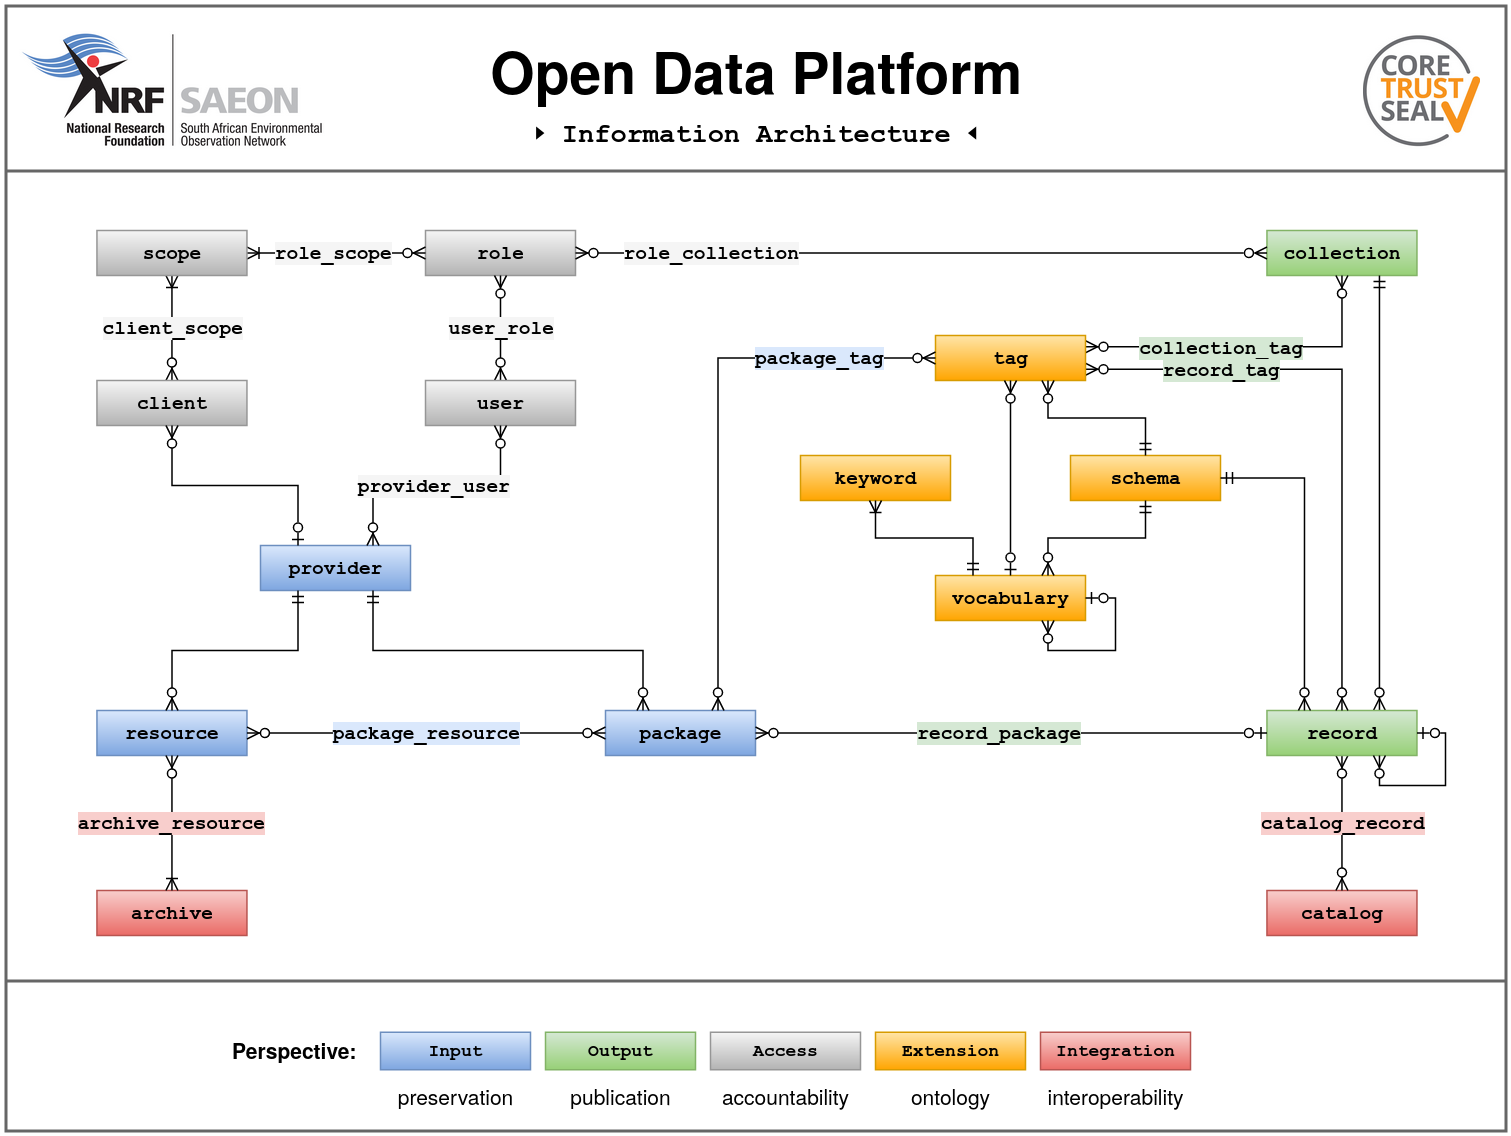
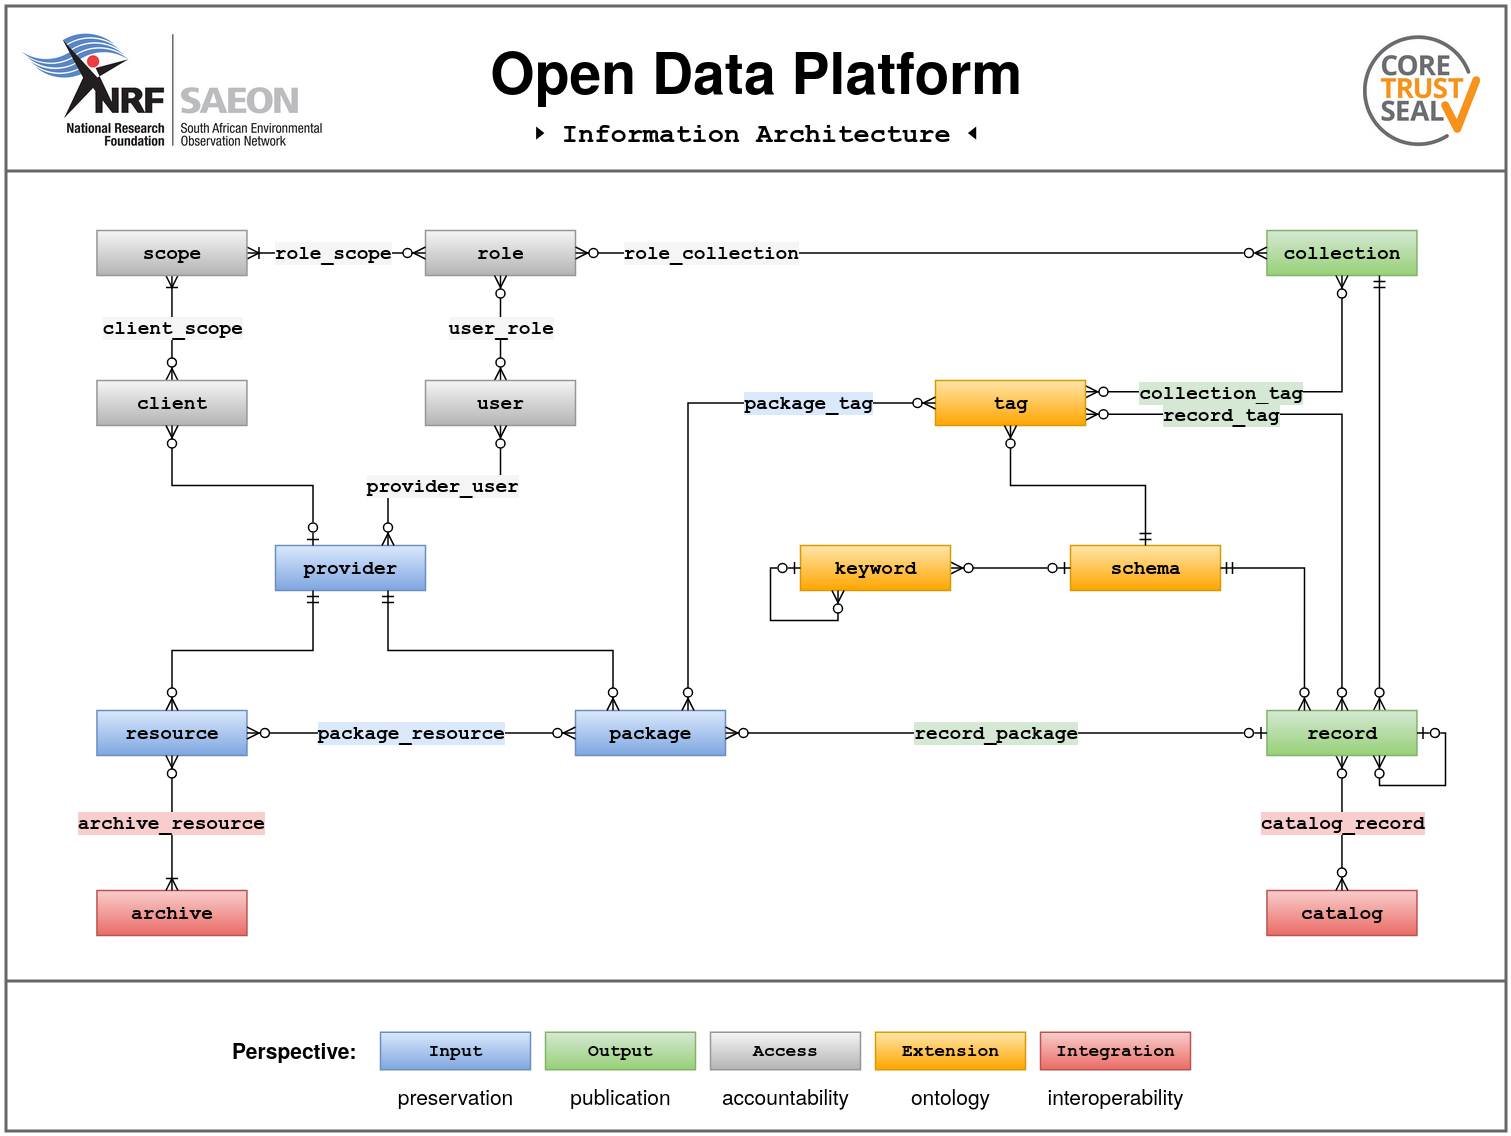
Create a hierarchical keyword entity :old_key:
SAEON/odp-server#30

diff --git a/migrate/versions/2024_06_16_d0c1c4b0d077_keyword_hierarchy.py b/migrate/versions/2024_06_16_d0c1c4b0d077_keyword_hierarchy.py
@@ -1,0 +1,60 @@
+"""Keyword hierarchy
+
+Revision ID: d0c1c4b0d077
+Revises: 9a3e9cbc19d1
+Create Date: 2024-06-16 10:02:03.771121
+
+"""
+from alembic import op
+import sqlalchemy as sa
+from sqlalchemy.dialects import postgresql
+
+# revision identifiers, used by Alembic.
+revision = 'd0c1c4b0d077'
+down_revision = '9a3e9cbc19d1'
+branch_labels = None
+depends_on = None
+
+
+def upgrade():
+    # new enum values must be committed before they can be used
+    op.execute("alter type schematype add value if not exists 'keyword' before 'vocabulary'")
+    op.execute('commit')
+
+    # ### commands auto generated by Alembic - adjusted ###
+    op.create_table('keyword_audit',
+                    sa.Column('id', sa.Integer(), sa.Identity(always=False), nullable=False),
+                    sa.Column('client_id', sa.String(), nullable=False),
+                    sa.Column('user_id', sa.String(), nullable=True),
+                    sa.Column('command', postgresql.ENUM(name='auditcommand', create_type=False), nullable=False),
+                    sa.Column('timestamp', sa.TIMESTAMP(timezone=True), nullable=False),
+                    sa.Column('_parent_key', sa.String(), nullable=True),
+                    sa.Column('_key', sa.String(), nullable=False),
+                    sa.Column('_data', postgresql.JSONB(astext_type=sa.Text()), nullable=False),
+                    sa.Column('_status', sa.String(), nullable=False),
+                    sa.Column('_schema_id', sa.String(), nullable=True),
+                    sa.PrimaryKeyConstraint('id')
+                    )
+    op.create_table('keyword',
+                    sa.Column('parent_key', sa.String(), nullable=True),
+                    sa.Column('key', sa.String(), nullable=False),
+                    sa.Column('data', postgresql.JSONB(astext_type=sa.Text()), nullable=False),
+                    sa.Column('status', sa.Enum('proposed', 'approved', 'retracted', name='keywordstatus'), nullable=False),
+                    sa.Column('schema_id', sa.String(), nullable=True),
+                    sa.Column('schema_type', postgresql.ENUM(name='schematype', create_type=False), nullable=True),
+                    sa.CheckConstraint("schema_type = 'keyword'", name='keyword_schema_type_check'),
+                    sa.CheckConstraint('parent_key is not null or schema_id is not null', name='keyword_parent_schema_check'),
+                    sa.CheckConstraint('parent_key is null or starts_with(key, parent_key)', name='keyword_parent_suffix_check'),
+                    sa.ForeignKeyConstraint(['parent_key'], ['keyword.key'], ondelete='RESTRICT'),
+                    sa.ForeignKeyConstraint(['schema_id', 'schema_type'], ['schema.id', 'schema.type'], name='keyword_schema_fkey',
+                                            ondelete='RESTRICT'),
+                    sa.PrimaryKeyConstraint('key')
+                    )
+    # ### end Alembic commands ###
+
+
+def downgrade():
+    # ### commands auto generated by Alembic ###
+    op.drop_table('keyword')
+    op.drop_table('keyword_audit')
+    # ### end Alembic commands ###

diff --git a/odp/db/models/keyword.py b/odp/db/models/keyword.py
@@ -1,0 +1,77 @@
+from sqlalchemy import CheckConstraint, Column, Enum, ForeignKey, ForeignKeyConstraint, Identity, Integer, String, TIMESTAMP
+from sqlalchemy.dialects.postgresql import JSONB
+from sqlalchemy.orm import relationship
+
+from odp.const.db import AuditCommand, KeywordStatus, SchemaType
+from odp.db import Base
+
+
+class Keyword(Base):
+    """A keyword identifies and describes a term in a vocabulary,
+    which may be hierarchical.
+
+    A keyword's key consists of its parent's key plus a non-empty
+    suffix.
+
+    A vocabulary is a keyword that is a parent of a set of keywords.
+    One keyword in such a set may itself represent a vocabulary,
+    with an associated set of sub-keywords.
+
+    Every root vocabulary must have a schema, which applies
+    recursively to every keyword in its hierarchy. Any keyword
+    may introduce its own schema, which applies to itself and
+    recursively to every sub-keyword in its sub-hierarchy.
+    """
+
+    __tablename__ = 'keyword'
+
+    __table_args__ = (
+        ForeignKeyConstraint(
+            ('schema_id', 'schema_type'), ('schema.id', 'schema.type'),
+            name='keyword_schema_fkey', ondelete='RESTRICT',
+        ),
+        CheckConstraint(
+            f"schema_type = '{SchemaType.keyword}'",
+            name='keyword_schema_type_check',
+        ),
+        CheckConstraint(
+            'parent_key is not null or schema_id is not null',
+            name='keyword_parent_schema_check',
+        ),
+        CheckConstraint(
+            'parent_key is null or starts_with(key, parent_key)',
+            name='keyword_parent_suffix_check',
+        ),
+    )
+
+    parent_key = Column(String, ForeignKey('keyword.key', ondelete='RESTRICT'))
+    key = Column(String, primary_key=True)
+    data = Column(JSONB, nullable=False)
+    status = Column(Enum(KeywordStatus), nullable=False)
+
+    schema_id = Column(String)
+    schema_type = Column(Enum(SchemaType))
+    schema = relationship('Schema')
+
+    parent = relationship('Keyword', remote_side=key)
+    children = relationship('Keyword', viewonly=True)
+
+    _repr_ = 'parent_key', 'key', 'status', 'schema_id'
+
+
+class KeywordAudit(Base):
+    """Keyword audit log."""
+
+    __tablename__ = 'keyword_audit'
+
+    id = Column(Integer, Identity(), primary_key=True)
+    client_id = Column(String, nullable=False)
+    user_id = Column(String)
+    command = Column(Enum(AuditCommand), nullable=False)
+    timestamp = Column(TIMESTAMP(timezone=True), nullable=False)
+
+    _parent_key = Column(String)
+    _key = Column(String, nullable=False)
+    _data = Column(JSONB, nullable=False)
+    _status = Column(String, nullable=False)
+    _schema_id = Column(String)

diff --git a/odp/db/models/__init__.py b/odp/db/models/__init__.py
@@ -2,6 +2,7 @@ from .archive import Archive, ArchiveResource
 from .catalog import Catalog, CatalogRecord, CatalogRecordFacet
 from .client import Client, ClientScope
 from .collection import Collection, CollectionAudit, CollectionTag, CollectionTagAudit
+from .keyword import Keyword, KeywordAudit
 from .package import Package, PackageAudit, PackageResource, PackageTag, PackageTagAudit
 from .provider import Provider, ProviderAudit, ProviderUser
 from .record import PublishedRecord, Record, RecordAudit, RecordPackage, RecordTag, RecordTagAudit
